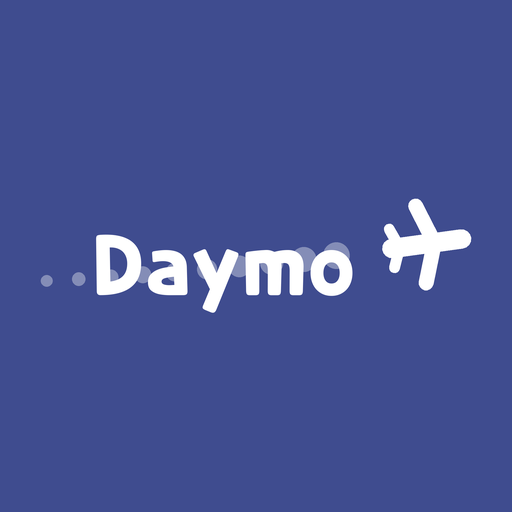
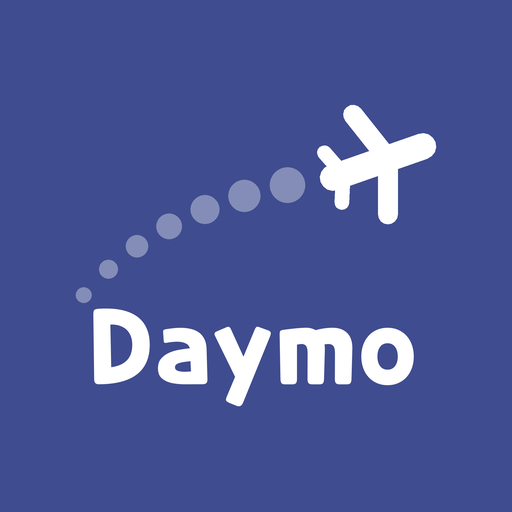
feat(app): the plane climbs over the name again, inside the safe circle
Back to the rising arc the user picked from the samples, but the whole
drawing is now fitted inside a centered circle (44% radius for the square
icon, the 66dp safe circle for the Android foreground), so rounded iOS
corners and round Android launchers no longer cut the plane or the path.

Claude-Session: https://claude.ai/code/session_01HQmza3up7dJje4K8r8DE35

Changed region(s): [[0.0625, 0.3125, 0.8125, 0.8125], [0.5938, 0.1875, 0.9375, 0.5625]]

diff --git a/mobile/scripts/build-icons.py b/mobile/scripts/build-icons.py
@@ -52,20 +52,19 @@ SPLASH_PAPER_DARK = (13, 17, 26)  # #0D111A 앱 배경
 
 # --- 그림 좌표. 320 x 620 짜리 화면 하나를 기준으로 잡는다. -----------------
 
-# 궤적. 이름 왼쪽에서 들어와 글자 뒤를 가로지르고, 끝에서 비행기가 살짝 들린다.
+# 궤적. D 왼쪽 위에서 떠올라 이름 위를 둥글게 넘어가고, 비행기는 오른쪽 위로 솟는다.
 #
-# 그림을 가로로 납작하게 모은다. 대각선으로 두면(오른쪽 위 비행기, 왼쪽 아래 점)
-# 기기가 아이콘 모서리를 둥글게 자를 때 비행기와 궤적 끝이 잘린다. 실제 기기에
-# 깔아 보고 확인한 문제다. 가운데 띠에 모아 두면 둥근 사각형(iOS)에서도 원형
-# 런처(Android)에서도 온전히 보인다.
+# 모서리에 닿지 않게 그림 전체를 가운데 원 안에 맞춘다(fit_circle). 기기는 아이콘
+# 모서리를 둥글게(iOS) 또는 원으로(Android) 자른다. 예전에는 그림을 감싸는 상자로
+# 맞춰서, 대각선 끝에 있는 비행기와 궤적이 실제 기기에서 잘렸다.
 #
-# 점은 글자 뒤로 지나가 글자 사이 틈에서만 비친다. 점을 글자 위에 얹거나 글자를
-# 뚫어 보기도 했는데, 29px 에서 이름이 부서져 보였다.
+# 가로로 글자를 가로지르는 모양과 연기로 쓴 글씨도 시안으로 비교했고, 위로 솟는
+# 이 모양을 골랐다(2026-09-15).
 # 이름("Daymo")은 장면 좌표에서 x 71~250, 위 끝 y 352, 기준선 392 다.
-CURVE = ((40, 384), (156, 378), (274, 362))
-TRAIL_COUNT = 10
-TRAIL_FROM, TRAIL_TO = 0.0, 0.84
-TRAIL_RADIUS = 9.0
+CURVE = ((68.2, 345.3), (114.9, 289.3), (217.6, 280.0))
+TRAIL_COUNT = 7
+TRAIL_FROM, TRAIL_TO = 0.0, 0.80
+TRAIL_RADIUS = 9.6
 TRAIL_ALPHA = 0.36
 
 def _arc(cx, cy, r, start, end, steps=8):
@@ -101,15 +100,15 @@ PLANE_SHAPES = [
 # 궤적 위에 얹히는 점. 꼬리 쪽에 둔다. 몸통 한가운데를 얹으면 꼬리가 궤적의
 # 마지막 점을 덮어서 뒤쪽이 지저분해진다.
 PLANE_PIVOT = (12.0, 50.0)
-PLANE_HEADING = 0.0  # 상자 안의 그림이 보는 방향. 궤적의 진행 방향으로 돌린다.
-PLANE_AT = 1.0  # 궤적 끝. 이름 오른쪽에 붙어 날아간다.
-PLANE_SIZE = 66.0
+# 상자 안의 그림이 보는 방향. 궤적의 진행 방향에서 이만큼 덜 돌려 코를 12도 들어 올린다.
+PLANE_HEADING = 12.0
+PLANE_AT = 0.93  # 궤적 위의 자리. 마지막 점 바로 뒤.
+PLANE_SIZE = 71.6
 
 WORDMARK = "Daymo"
 WORDMARK_SIZE = 56
 WORDMARK_AT = (160, 392)
-# 예전에는 궤적이 글자에 붙어 보이지 않게 글자 둘레를 배경색으로 둘렀다. 이제는
-# 점이 글자 사이 틈으로 비쳐야 해서 두르지 않는다.
+# 궤적이 글자와 겹치지 않아 글자 둘레를 배경색으로 두르지 않는다.
 WORDMARK_HALO = 0.0
 
 TAGLINE = "우리의 여행 수첩"
@@ -118,17 +117,18 @@ TAGLINE_AT = (160, 418)
 TAGLINE_ALPHA = 0.55
 
 # 실행 화면이 담는 범위. app.json 의 imageWidth 와 비율이 맞아야 해서 예전
-# 모눈을 깔던 때의 크기(320 x 220)를 그대로 둔다. 가로 띠 그림과 한 줄 소개가
-# 한가운데 오게 맞췄다.
-SPLASH_BOX = (22, 268, 342, 488)
+# 모눈을 깔던 때의 크기(320 x 220)를 그대로 둔다. 그림과 한 줄 소개가 한가운데
+# 오게 맞췄다.
+SPLASH_BOX = (2, 222, 322, 442)
 SPLASH_PIXEL_WIDTH = 1024
 
 # 안드로이드 적응형 아이콘은 108dp 중 가운데 지름 66dp 원이 어떤 런처에서도
 # 보인다. 그림의 모든 점이 그 원 안에 들도록 맞춘다(반지름 비율). 상자로 맞추면
 # 상자 모서리가 원 밖으로 나가 잘린다.
 ADAPTIVE_SAFE_RADIUS = 0.30
-# 정사각 아이콘에서 그림 폭이 차지할 비율. 그림이 가로 띠라 모서리에 닿지 않는다.
-ICON_FIT = 0.84
+# 정사각 아이콘에서 그림이 들어갈 원의 반지름 비율. iOS 둥근 사각형(모서리 반지름
+# 22%)은 대각선으로 가운데에서 61% 까지 보이므로 44% 원이면 넉넉하다.
+ICON_RADIUS = 0.44
 # 파비콘. 아이콘과 같은 그림을 쓰되 이름을 1.3배 키우고 궤적을 넷으로 줄인다.
 # 32px 에서는 아이콘의 축소판으로 읽히고, 16px 에서는 이름이 막대가 되지만
 # 색과 비행기 자리가 같아 같은 앱으로 이어진다.
@@ -330,10 +330,10 @@ def favicon():
 def main():
     OUT.mkdir(parents=True, exist_ok=True)
 
-    icon(1024, ICON_FIT, BACKGROUND).convert("RGB").save(OUT / "daymo-icon.png")
+    icon(1024, None, BACKGROUND, radius=ICON_RADIUS).convert("RGB").save(OUT / "daymo-icon.png")
     # 적응형 앞면은 안전 영역 안으로 줄인다. 배경은 app.json 이 깐다.
     icon(1024, None, BACKGROUND, transparent=True, radius=ADAPTIVE_SAFE_RADIUS).save(OUT / "daymo-icon-adaptive.png")
-    icon(512, ICON_FIT, BACKGROUND).convert("RGB").save(OUT / "daymo-icon-login.png")
+    icon(512, None, BACKGROUND, radius=ICON_RADIUS).convert("RGB").save(OUT / "daymo-icon-login.png")
 
     splash(SPLASH_INK_LIGHT, SPLASH_PAPER_LIGHT).save(OUT / "daymo-splash.png")
     splash(SPLASH_INK_DARK, SPLASH_PAPER_DARK).save(OUT / "daymo-splash-dark.png")
